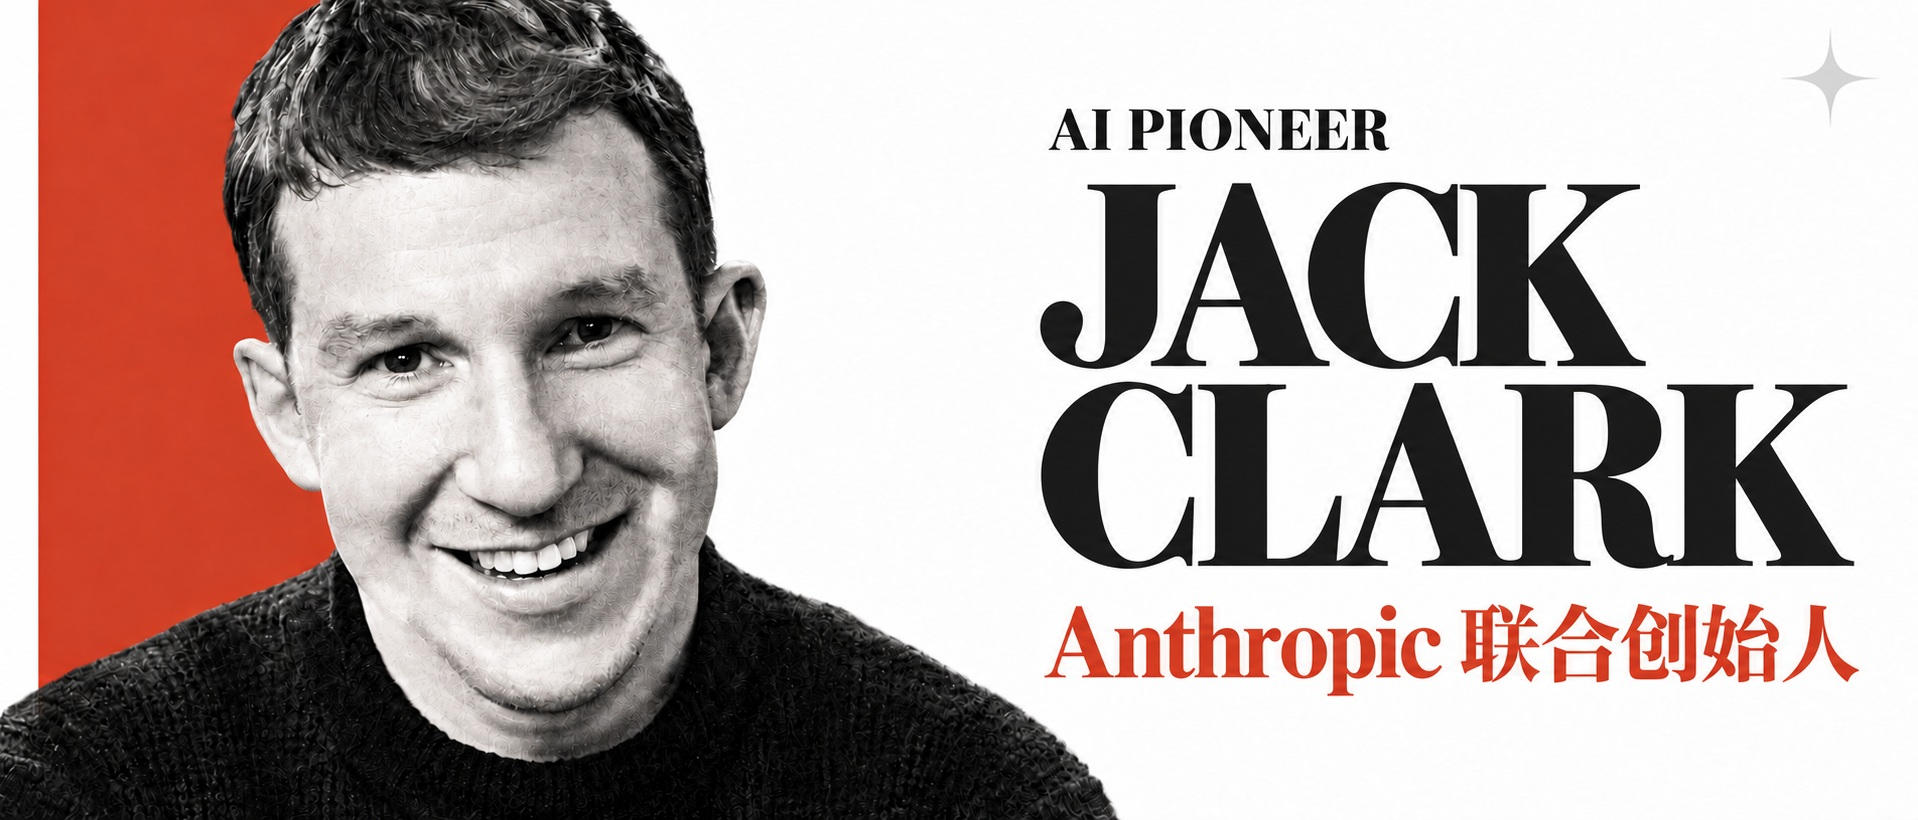
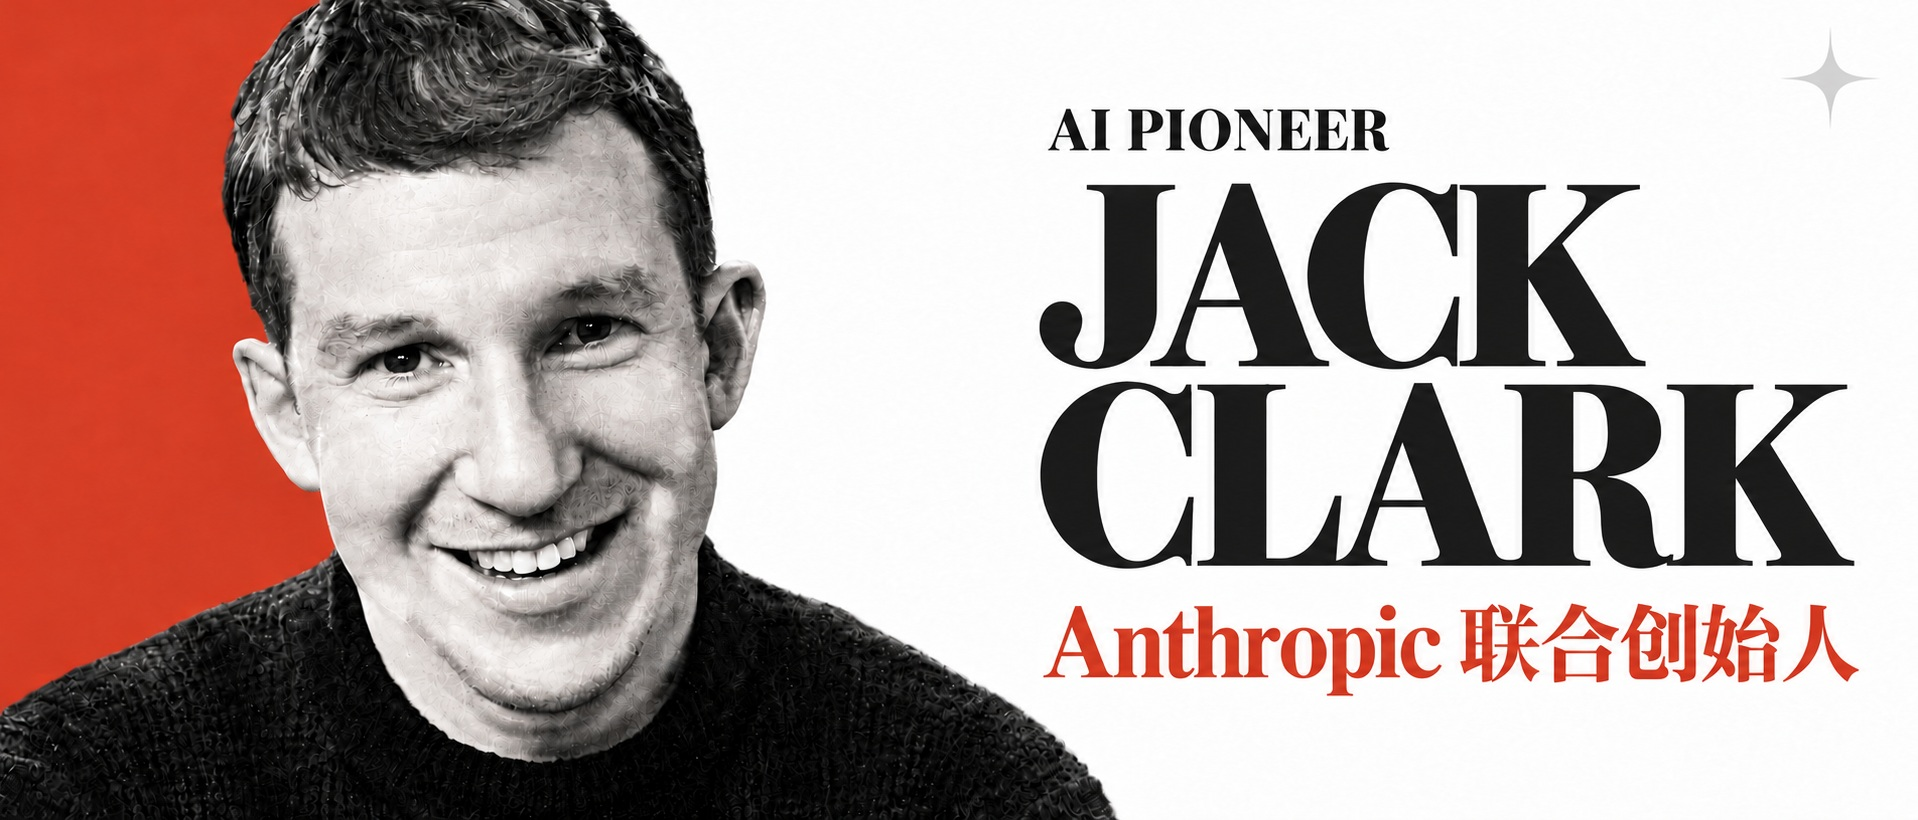
Align hero red edge and remove duplicate identity text

diff --git a/ai-pioneer-1019/references/cover.md b/ai-pioneer-1019/references/cover.md
@@ -10,13 +10,14 @@
 - 右半留白，墨黑高对比衬线字标 AI PIONEER，下面大号人物姓名；用人物适合的中英文姓名，避免强制不自然拆字。
 - 姓名下方写本期真实职务，如 `Anthropic 联合创始人`。朱红 #D93D28，高对比衬线/宋体，与参考原红色人物标签的字体气质一致；不做胶囊、灰块、描边或粗黑无衬线标签。1918 宽时约 65–75px，按长短微调。
 - 图形 Logo 只在最右上，参考约 100px，距顶部/右侧约 55px，浅灰水印。使用提供的四角星轮廓；不要贴原件黑方块，不另造 Logo。
-- **移除封面里的“AI先行者”或“AI 先行者”字样**，职务取代其位置。正文栏目标签不受此约束。
+- **移除封面里的“AI先行者”或“AI 先行者”字样**，职务取代其位置。
+- 左侧朱红必须直接接触画布最左边，不留白色竖条或画框。与 banner 并排检查时，应比较可见朱红边缘，而不只是图片元素边界。正文已取消重复的人名和职务栏。
 - 同一张图作为微信封面和正文首图。检查大图及手机缩略图的姓名和职务；方形平台展示若确实需要，另适配，不声称横图自动兼容所有裁切。
 
 ## 可复用生成提示
 
 把括号字段换成本期已核实信息，再发送给图像工具：
 
-> Create an editorial portrait cover for AI PIONEER. Use the supplied approved cover as the layout and typography reference, the supplied portrait as the identity reference, and the supplied four-point star as the brand symbol. Wide 2.34:1 composition, white background, narrow vermilion #D93D28 stripe on the left. Natural portrait of [PERSON] on the left, generous clean space on the right. On the right, elegant high-contrast serif AI PIONEER wordmark and large [DISPLAY NAME] in near-black #151515. Under the name, set exactly “[VERIFIED ROLE]” in vermilion #D93D28, refined Songti/high-contrast serif, comfortably readable on one line where possible. Small faint gray four-point-star watermark in the extreme upper-right with ample margins, no black square behind it. No “AI先行者” or “AI 先行者” text on the cover. No frosted glass, translucent panels, pills, borders or extra slogans. Preserve recognizable facial features and natural detail. Do not invent other text, roles or affiliations.
+> Create an editorial portrait cover for AI PIONEER. Use the supplied approved cover as the layout and typography reference, the supplied portrait as the identity reference, and the supplied four-point star as the brand symbol. Wide 2.34:1 composition, white background, vermilion #D93D28 stripe on the left extending fully to the canvas left edge: no white gutter or frame. Natural portrait of [PERSON] on the left, generous clean space on the right. On the right, elegant high-contrast serif AI PIONEER wordmark and large [DISPLAY NAME] in near-black #151515. Under the name, set exactly “[VERIFIED ROLE]” in vermilion #D93D28, refined Songti/high-contrast serif, comfortably readable on one line where possible. Small faint gray four-point-star watermark in the extreme upper-right with ample margins, no black square behind it. No “AI先行者” or “AI 先行者” text on the cover. No frosted glass, translucent panels, pills, borders or extra slogans. Preserve recognizable facial features and natural detail. Do not invent other text, roles or affiliations.
 
 素材、角色与文字冲突时以当期核实资料为准。英文品牌与职务文字必须逐字人工核对；发现乱码时继续修正，不能只靠“已生成”判定完成。

diff --git a/ai-pioneer-1019/references/design.md b/ai-pioneer-1019/references/design.md
@@ -25,9 +25,7 @@
 
 | 组件 | 字号/行高 | 留白 |
 | --- | --- | --- |
-| 人物栏目小标签 | 11px / 1.6，朱红，700，字距 2px | 顶 26，下 11 |
-| 正文主标题 | 29px / 1.4，宋体粗体 | 下 18 |
-| 人物信息 | 12px / 1.7 | 下 30 |
+| 正文主标题 | 29px / 1.4，宋体粗体 | 上 26，下 24 |
 | 正文 | 16px / 1.95，字距 0.3px | 段落间 16 |
 | 导语 | 同正文 | 下 36 |
 | 章节序号 | 11px / 1.4，朱红，700 | 下 8 |
@@ -37,6 +35,8 @@
 | 全文完 | 11px / 1.8，朱红，字距 4px，居中 | 上 40，下 48 |
 
 章节数量由内容决定，不能把所有文章压成四段。观点提炼不要伪装成人物原话：引用需要原文证据；编辑观点应明确为编辑提炼，不虚构署名。内容事实证据可保留在工作文档；用户不需要的参考尾栏不附加。
+
+2026-10-20 修订：首图内部左侧朱红出血到画布左边，与 banner 可见左边缘对齐，不得留白色竖条。首图后的“AI 先行者 · 人物姓名”标签和“姓名 + 职务”信息行取消，避免复述图上已有信息。文章主标题仍保留，正常正文提到人物不受限制。
 
 ## 往期推荐
 

diff --git a/ai-pioneer-1019/references/build.md b/ai-pioneer-1019/references/build.md
@@ -64,6 +64,6 @@ node scripts/preview.cjs /work/issue/render-v1
 
 ## 人工视觉检查
 
-打开截图检查：第一眼能识别人物；姓名与职务在手机上可读；banner 品牌和 slogan 对齐；正文无横向滚动；往期封面裁切不损坏标题；每张推荐都有真实跳转；文末有完整结语和品牌卡片。脚本只检查结构、图片加载和溢出，不能判断审美与事实正确性。
+打开截图检查：第一眼能识别人物；姓名与职务在手机上可读；banner 品牌和 slogan 对齐；首图左侧朱红与 banner 左边齐平、图内无白边；首图后没有重复人名或职务行；正文无横向滚动；往期封面裁切不损坏标题；每张推荐都有真实跳转；文末有完整结语和品牌卡片。脚本只检查结构、图片加载和溢出，不能判断审美与事实正确性。
 
 修改固定 banner/结尾源 HTML 后需重新用 Chromium 渲染为对应尺寸 JPG，并查看实际图片；不能只改源文件却仍发旧 JPG。用户未要求修改固定品牌组件时直接复用。
